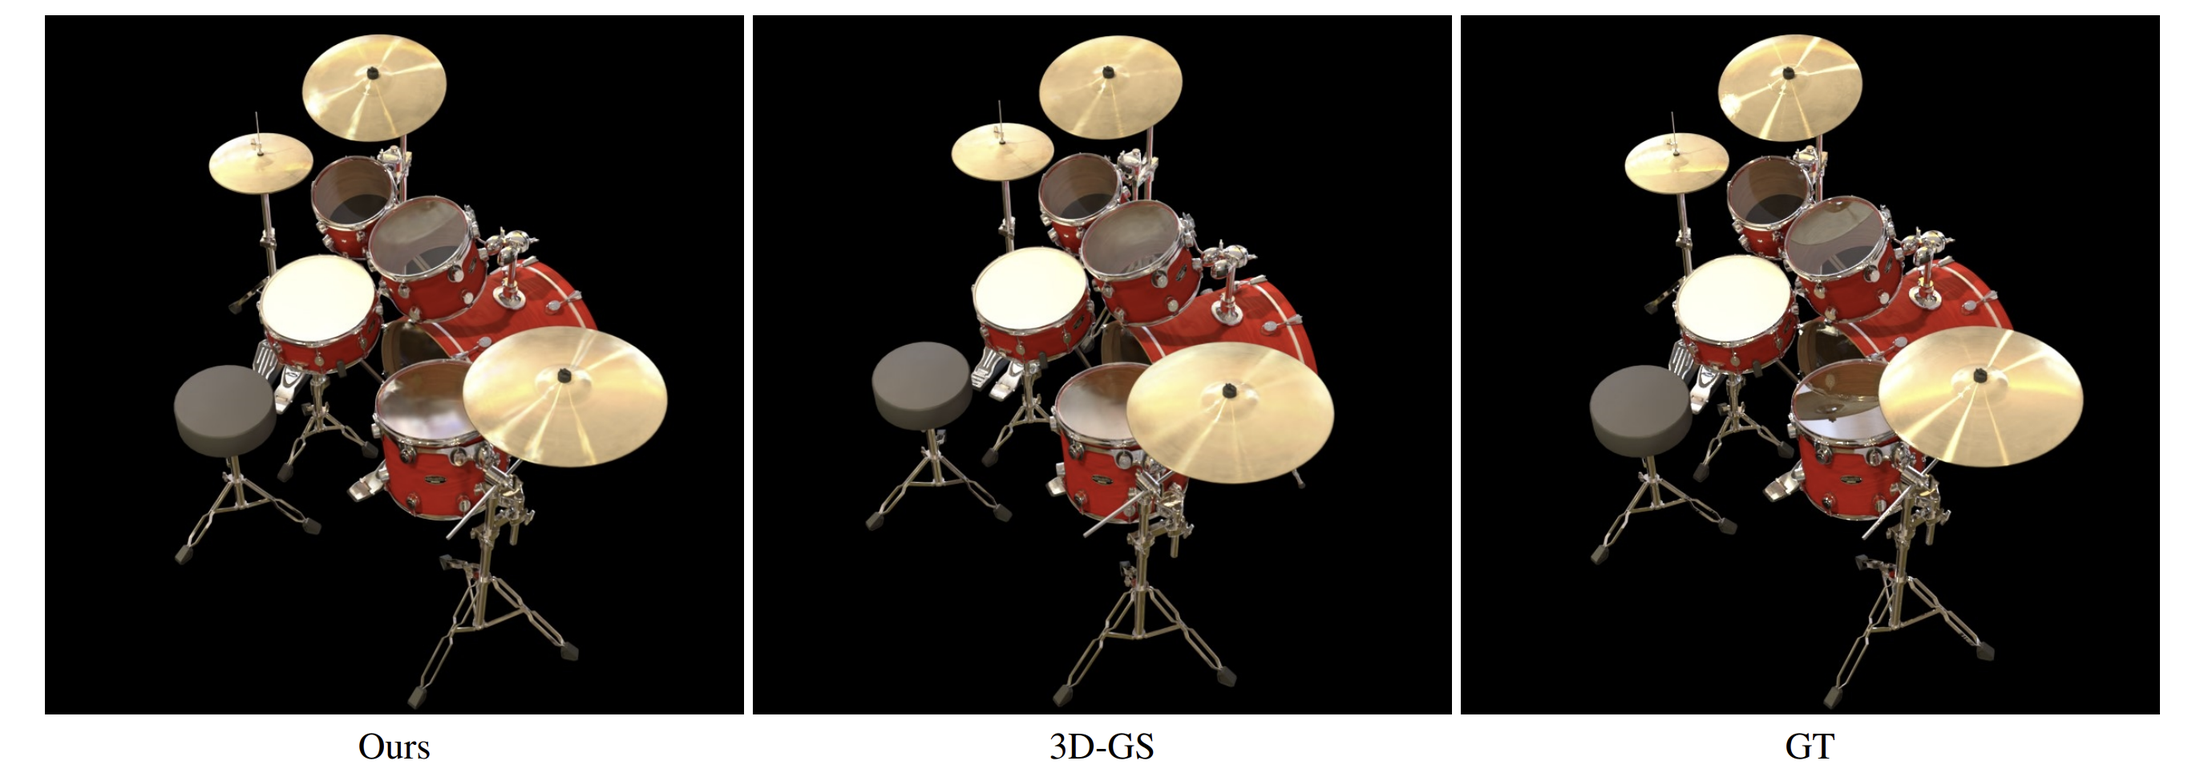
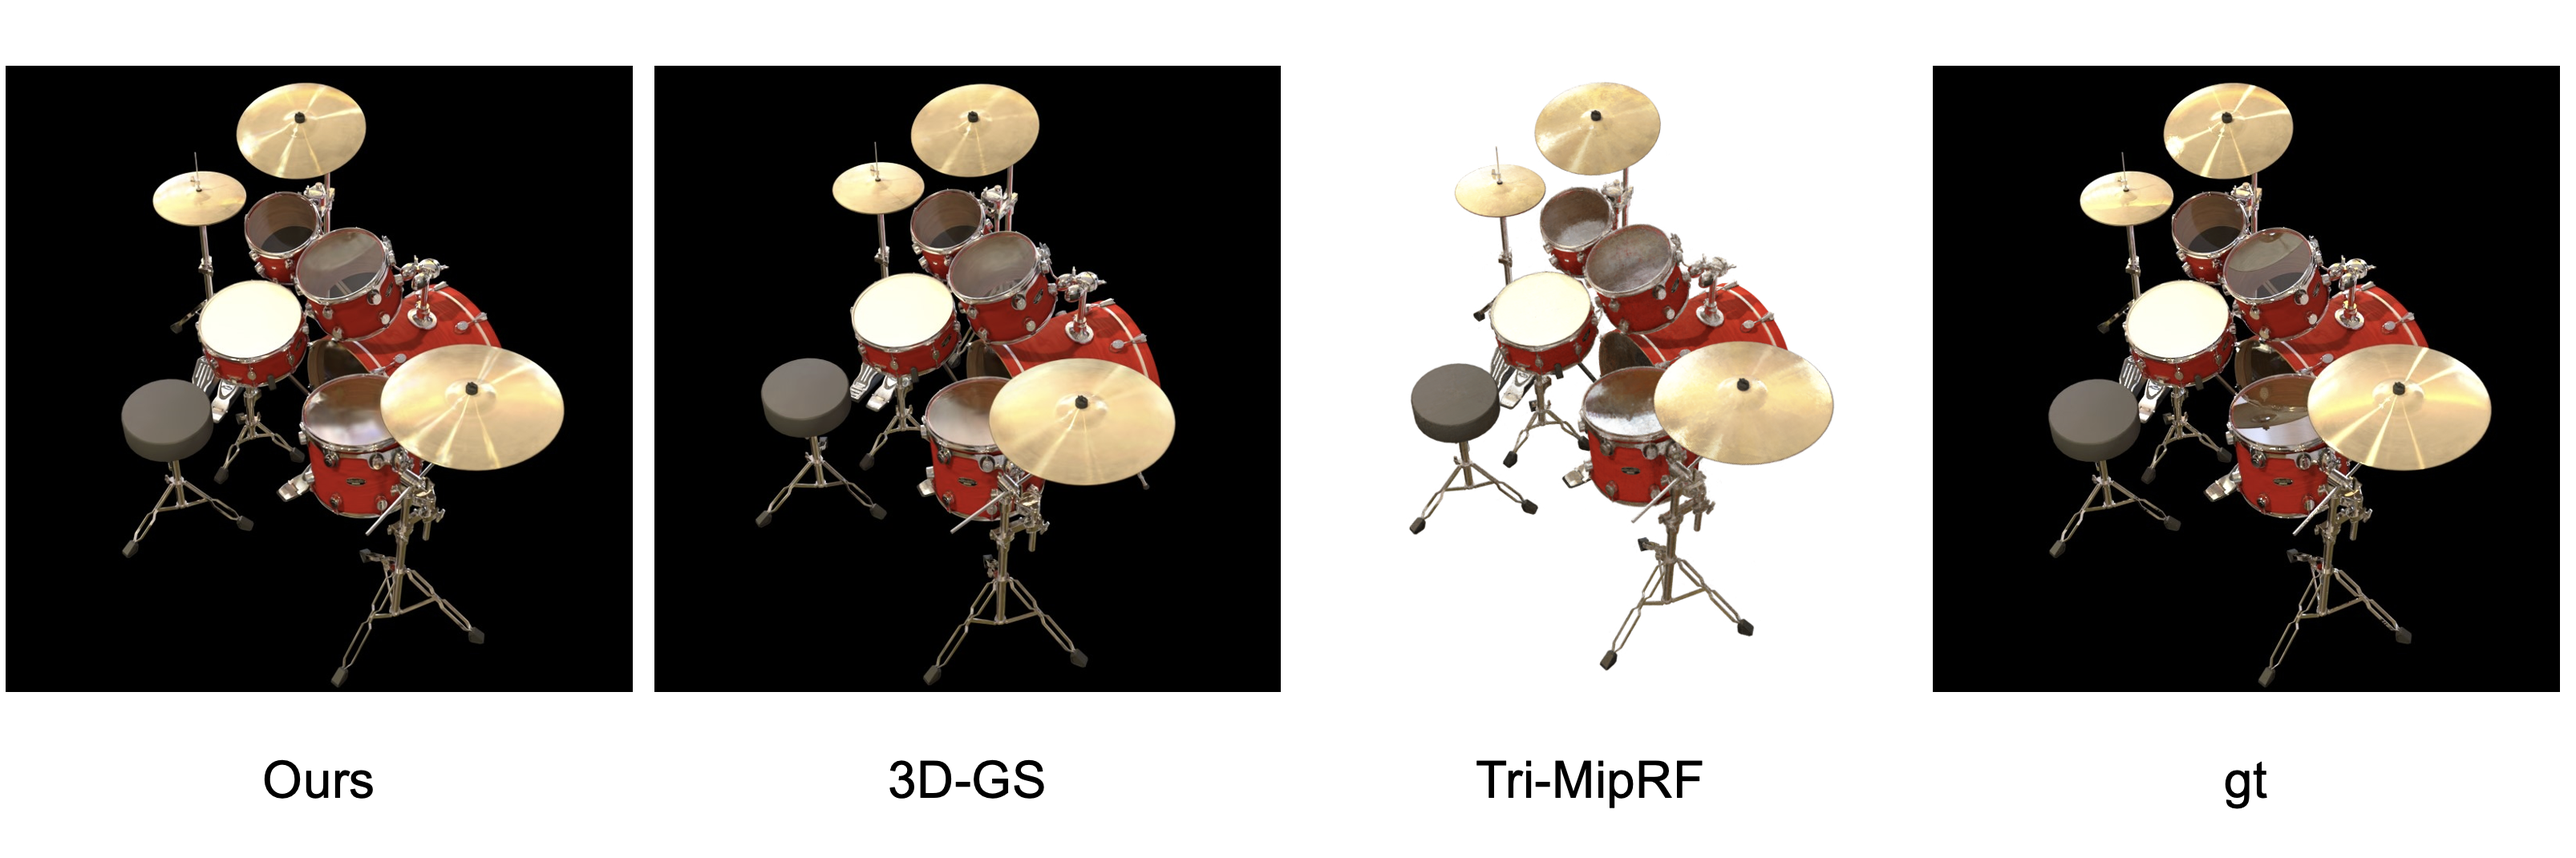
Add results

diff --git a/README.md b/README.md
@@ -1,10 +1,20 @@
 # Specular-Gaussians
 
-It should be noted that this is **not an implementation of a paper**. The main thing I did was replace SH with [ASG](https://cg.cs.tsinghua.edu.cn/people/~kun/asg/), which allows 3D Gaussians to model more complex specular. But the reflection still needs to be improved. Even so, **Specular-Gaussians** has become the SOTA 3D-Gaussians-based method for NeRF scenes. The reason why I release the code is that I think adapting 3D-GS on the basis of [nrff](https://github.com/imkanghan/nrff) and [NeuRBF](https://github.com/oppo-us-research/NeuRBF) is not enough to publish a truly useful paper.
+It should be noted that this is **not an implementation of a paper**. The key modification I made was substituting SH with [ASG](https://cg.cs.tsinghua.edu.cn/people/~kun/asg/), enhancing the ability of 3D Gaussians to model complex specular. However, there's still room for improvement in the reflection quality. Despite this, **Specular-Gaussians** has emerged as the SOTA method based on 3D Gaussians for NeRF scenes. I've decided to release the code because I think simply adapting 3D-GS based on [nrff](https://github.com/imkanghan/nrff) and [NeuRBF](https://github.com/oppo-us-research/NeuRBF) doesn't seem sufficient to produce a truly useful paper.
 
-![Comparison](assets/teaser.png)
+![teaser](assets/teaser.png)
 
 
+
+## Results
+
+**Quantitative Results on NeRF Synthetic Dataset**
+
+![results](assets/results.png)
+
+**Qualitative Results on Nex Dataset**
+
+![cd-compare](assets/cd-compare.png)
 
 
 
